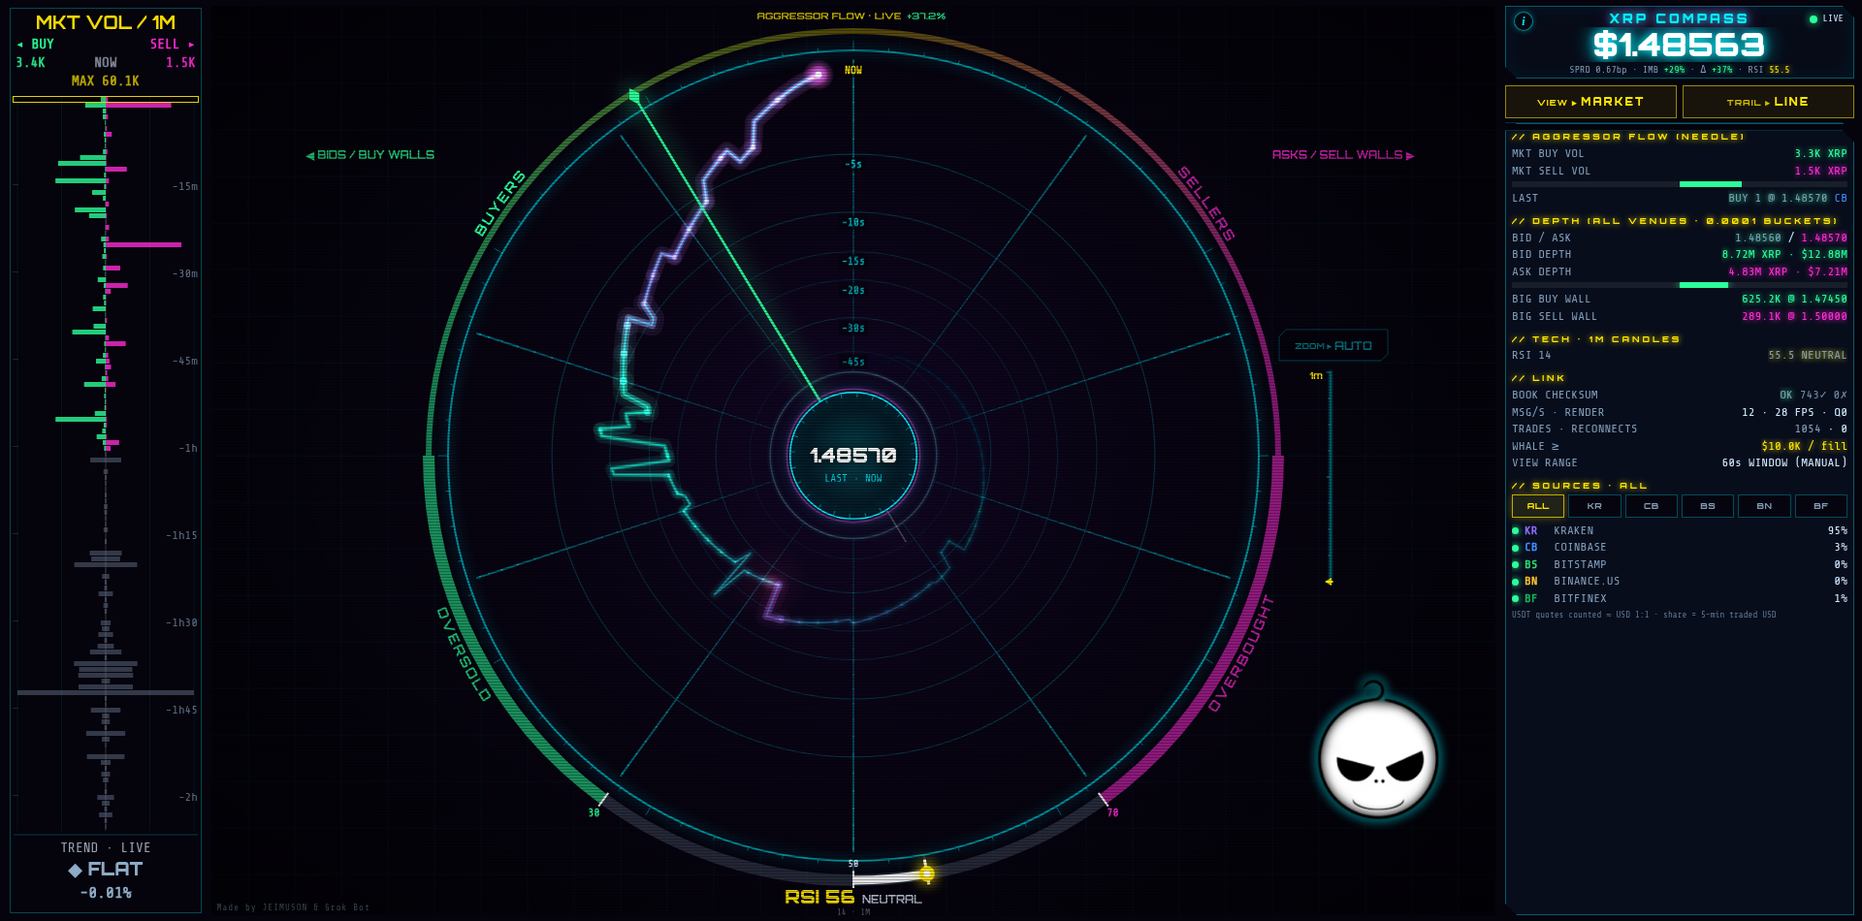
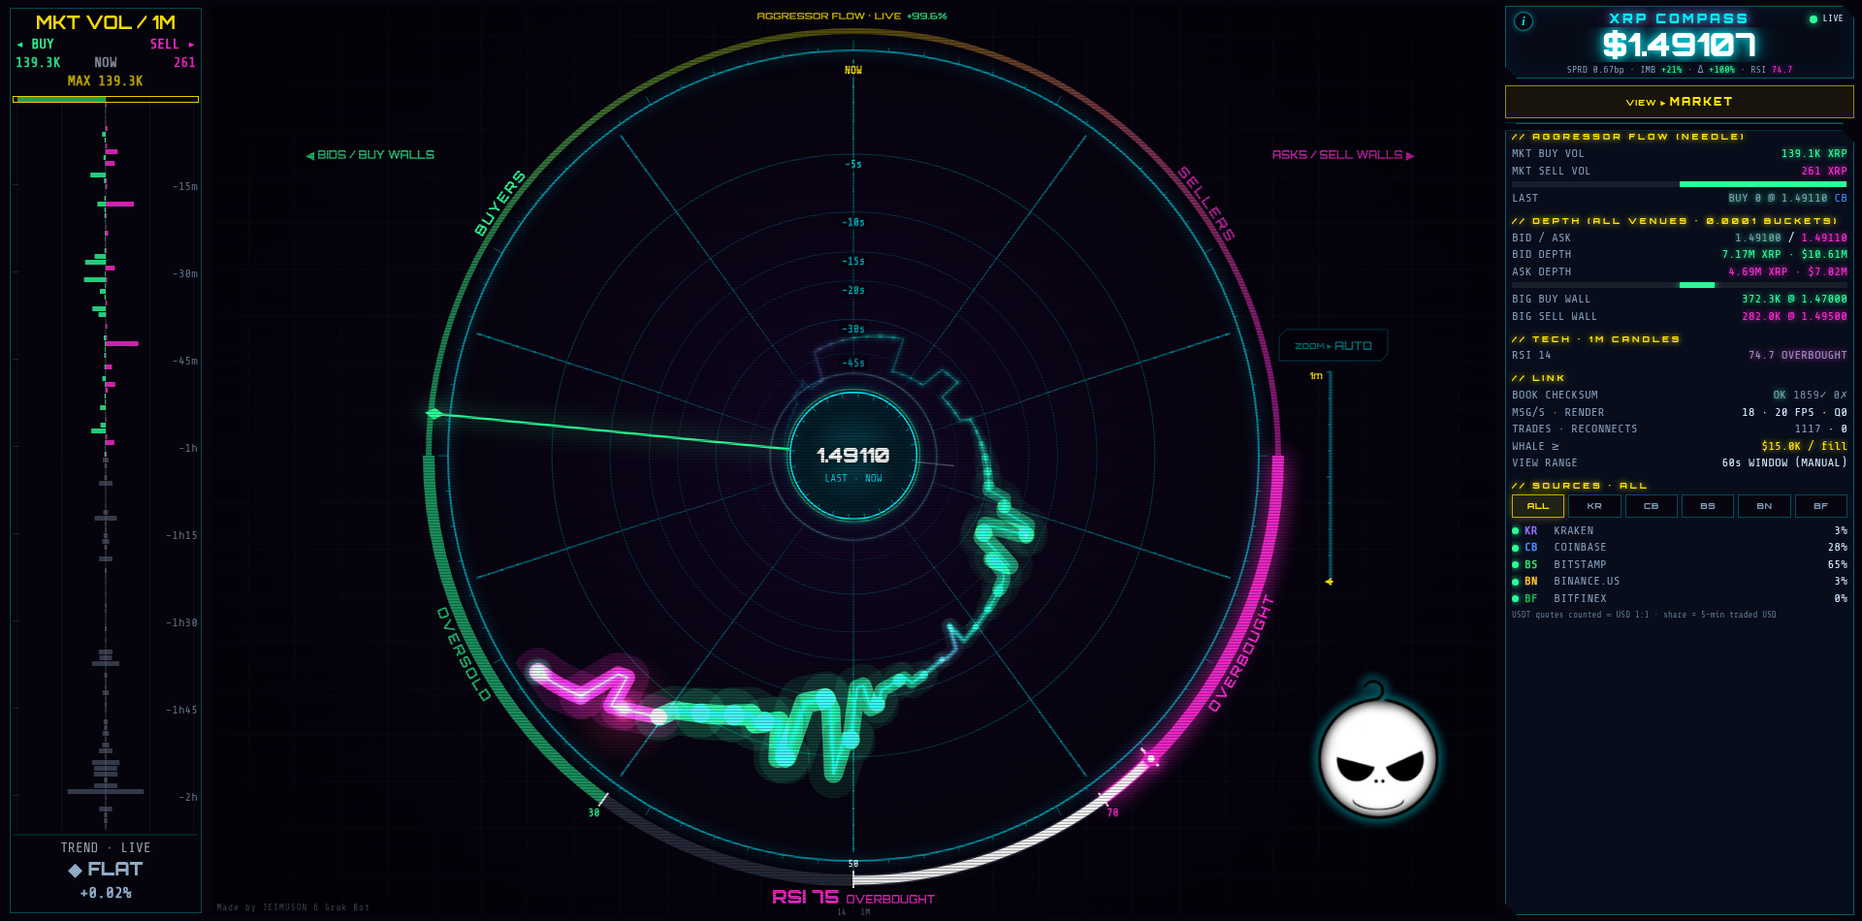
Revert to 1956 content (no trail toggle), clear trail setting (build 20261002-2031)

diff --git a/index.html b/index.html
@@ -3,7 +3,7 @@
 <head>
 <meta charset="utf-8">
 <meta http-equiv="Cache-Control" content="no-cache, no-store, must-revalidate"><meta http-equiv="Pragma" content="no-cache"><meta http-equiv="Expires" content="0">
-<script>window.OFC_BUILD='20261002-2007';(function(){try{if(!/^https?:/.test(location.protocol))return;fetch(location.pathname+'?_='+Date.now(),{cache:'no-store'}).then(r=>r.text()).then(t=>{const m=t.match(/OFC_BUILD='([^']+)'/);if(m&&m[1]!==window.OFC_BUILD&&sessionStorage.getItem('ofcB')!==m[1]){sessionStorage.setItem('ofcB',m[1]);location.replace(location.pathname+'?v='+m[1]+location.hash);}}).catch(()=>{});}catch(e){}})();</script>
+<script>window.OFC_BUILD='20261002-2031';try{localStorage.removeItem('ofc.trail')}catch(e){};(function(){try{if(!/^https?:/.test(location.protocol))return;fetch(location.pathname+'?_='+Date.now(),{cache:'no-store'}).then(r=>r.text()).then(t=>{const m=t.match(/OFC_BUILD='([^']+)'/);if(m&&m[1]!==window.OFC_BUILD&&sessionStorage.getItem('ofcB')!==m[1]){sessionStorage.setItem('ofcB',m[1]);location.replace(location.pathname+'?v='+m[1]+location.hash);}}).catch(()=>{});}catch(e){}})();</script>
 <meta name="viewport" content="width=device-width,initial-scale=1,viewport-fit=cover,user-scalable=no">
 <meta name="theme-color" content="#05030c">
 <meta name="color-scheme" content="dark">
@@ -71,7 +71,6 @@ body.hublogo #top .logo{display:none}   /* mobile: logo lives in the compass hub
 #win button.zauto{flex:1.5}.zpill #win button.zauto{display:none !important}#win button.tdir#tdir{flex:1.6}
 #win button.zauto:not(.lit){color:rgba(0,240,255,.45);border-color:rgba(0,240,255,.25);background:rgba(5,3,12,.75)}
 #win button.zauto.lit{box-shadow:0 0 10px rgba(255,230,0,.35)}
-#win button.tdir#tsty{flex:1.25;font-size:8px}#win button#tsty i{display:block;font-style:normal;margin-bottom:3px;opacity:.8}#win button.tdir#tsty b{letter-spacing:1px}body:not(.mkt) #win button#tsty{display:none}
 #win button.on{background:rgba(0,240,255,.22);color:#fff;box-shadow:0 0 12px var(--cy),inset 0 0 10px rgba(0,240,255,.4)}
 #sheet>.panel{padding:0 6px}
 #tabs{display:flex;gap:4px;margin:0}
@@ -104,7 +103,7 @@ body.hublogo #top .logo{display:none}   /* mobile: logo lives in the compass hub
  #app{padding:calc(var(--st) + 6px) calc(env(safe-area-inset-right,0px) + 8px) calc(var(--sb) + 6px) calc(env(safe-area-inset-left,0px) + 8px)}
  #top,#vcv,#sheet{margin:0}
  #win{flex-wrap:wrap;row-gap:6px}
- #win button.zauto,#win button.tdir#tdir,#win button.tdir#tsty{flex:1 1 40%}#win button.tdir#tsty{font-size:9px}#win button#tsty i{display:inline;margin:0}#win button.tdir#tsty b{letter-spacing:2px}
+ #win button.zauto,#win button.tdir#tdir{flex:1 1 40%}
  #vcv{order:-1;flex:0 0 clamp(130px,10.5vw,270px);width:clamp(130px,10.5vw,270px) !important;height:auto;align-self:stretch;min-height:0}
  #pages{display:block;position:static;max-height:none;margin-top:6px}
  #sheetClose{display:none}
@@ -165,8 +164,7 @@ body.hublogo #top .logo{display:none}   /* mobile: logo lives in the compass hub
  <li>One lap = the time window (15–60s, shown on the zoom bar).</li>
  <li>Trail swings <b>out</b> = price up, <b>in</b> = price down.</li>
  <li><b class="gr">Green</b> = buyers, <b class="rd">red</b> = sellers. Thicker trail = more volume.</li>
- <li><b>Flares</b> mark the spots with the heaviest trading.</li>
- <li><b>TRAIL ▸ LINE / CANDLES / HEIKIN ASHI</b> switches the spiral between the flow line and candles along the same path (each candle = window/20; body = open→close, wick = high/low; green up, red down; Heikin Ashi smooths them).</li></ul>
+ <li><b>Flares</b> mark the spots with the heaviest trading.</li></ul>
  <h3>LIMIT VIEW · ORDER-BOOK WALLS</h3>
  <ul><li>Arcs are <b>walls</b> of waiting orders: <b class="gr">buyers left</b>, <b class="rd">sellers right</b>.</li>
  <li>Distance from the middle = distance from the current price.</li>
@@ -195,7 +193,7 @@ body.hublogo #top .logo{display:none}   /* mobile: logo lives in the compass hub
 </div>
 
 <div id="sheet">
- <div id="win"><button id="zauto" class="tdir zauto" title="auto zoom on/off">ZOOM ▸ <b>AUTO</b></button><button id="tdir" class="tdir" title="view mode: limit orders / market orders">VIEW ▸ <b>LIMIT</b></button><button id="tsty" class="tdir" title="MARKET trail style: line / candles / heikin ashi"><i>TRAIL ▸</i> <b>LINE</b></button></div>
+ <div id="win"><button id="zauto" class="tdir zauto" title="auto zoom on/off">ZOOM ▸ <b>AUTO</b></button><button id="tdir" class="tdir" title="view mode: limit orders / market orders">VIEW ▸ <b>LIMIT</b></button></div>
  <div class="panel">
   <div id="tabs"><button data-p="0" class="on">FLOW</button><button data-p="1">DEPTH</button><button data-p="2">TECH</button><button data-p="3">LINK</button><button data-p="4">SRC</button></div>
  </div>
@@ -719,12 +717,8 @@ try{let v=localStorage.getItem('ofc.view');
   if(!v){const old=localStorage.getItem('ofc.timeDir');v=old==='out'?'market':'limit';localStorage.setItem('ofc.view',v);localStorage.removeItem('ofc.timeDir');}
   VIEW=v==='market'?'market':'limit';}catch(e){}
 let INBOUND=VIEW==='limit';
-function syncDir(){INBOUND=VIEW==='limit';document.body.classList.toggle('mkt',VIEW==='market');$('tdir').innerHTML=`VIEW ▸ <b>${VIEW==='limit'?'LIMIT':'MARKET'}</b>`;trailDirty=true;}
+function syncDir(){INBOUND=VIEW==='limit';$('tdir').innerHTML=`VIEW ▸ <b>${VIEW==='limit'?'LIMIT':'MARKET'}</b>`;trailDirty=true;}
 $('tdir').onclick=()=>{VIEW=VIEW==='limit'?'market':'limit';try{localStorage.setItem('ofc.view',VIEW);}catch(e){}syncDir();};syncDir();
-let TSTY=(()=>{try{const v=localStorage.getItem('ofc.trail');return ['line','candles','ha'].includes(v)?v:'line';}catch(e){return 'line';}})();   // MARKET trail style
-function syncTsty(){const n={line:'LINE',candles:'CANDLES',ha:innerWidth<560?'H-ASHI':'HEIKIN ASHI'}[TSTY];$('tsty').innerHTML=`<i>TRAIL ▸</i> <b>${n}</b>`;}
-function setTsty(v){TSTY=v;try{localStorage.setItem('ofc.trail',TSTY);}catch(e){}syncTsty();}
-$('tsty').onclick=()=>setTsty(TSTY==='line'?'candles':TSTY==='candles'?'ha':'line');syncTsty();addEventListener('resize',syncTsty);
 const depthOf=age=>INBOUND?Math.max(0,(LWIN-age)*HIST_SEC/LWIN):age;   // LIMIT: newest at the vanishing point, LWIN-old at the ring   // tunnel depth in seconds
 
 const COL={bid:[43,255,154],ask:[255,43,214],cy:[0,240,255],yl:[255,230,0]};
@@ -1459,14 +1453,14 @@ function drawTrail(now){
     BSP=Math.max(mid*0.00002,0.6*(dv[Math.floor(dv.length*0.9)]||0));}   // AUTO: ~90th-pct move maps to ~1.6x amplitude (tanh softens outliers)
   const WIG=[];
   const AMAX=Math.max(1,Math.min(trail.length-1+lag,MWIN)), DZ=HIST_SEC/MWIN, KO=0.985, sMin=FOCAL/(FOCAL+AMAX*DZ);
-  const pt=(f,PX)=>{const age=f===0?0:f+lag,dz=age*DZ,p=proj(dz),s=p.s,sT=FOCAL/(FOCAL+dz+TURN*DZ);
+  const pt=f=>{const age=f===0?0:f+lag,dz=age*DZ,p=proj(dz),s=p.s,sT=FOCAL/(FOCAL+dz+TURN*DZ);
     const u=Math.max(0,Math.min(1,(s-sMin)/(1-sMin)))*Math.min(1,(AMAX-age)/6+0.0);
     // radial wiggle = (trade price - newest trade) / bulge scale, amplitude scales with perspective; soft (tanh) limit ~0.55 coil gap
-    const raw=((PX==null?prAt(f):PX)-P0)/BSP*RMAX*KO*s*0.22, L=Math.max(2,0.55*RMAX*KO*(s-sT)), off=L*Math.tanh(raw/L);
+    const raw=(prAt(f)-P0)/BSP*RMAX*KO*s*0.22, L=Math.max(2,0.55*RMAX*KO*(s-sT)), off=L*Math.tanh(raw/L);
     const r=RMAX*KO*s+off, th=ang(age);   // head (f=0) = newest trade -> off 0 -> rides the outer ring
     let x=p.x+Math.cos(th)*r, y=p.y+Math.sin(th)*r;
     {const dx=x-CX,dy=y-CY,d=Math.hypot(dx,dy),m=RMAX*0.995,k0=0.9*m;if(d>k0){const dd=k0+(m-k0)*Math.tanh((d-k0)/(m-k0));x=CX+dx*dd/d;y=CY+dy*dd/d;}}   // soft outer edge
-    if(PX==null){if(WIG.length<4000)WIG.push(off); if(f===3||f===8)(window.__ofcR=window.__ofcR||{})['o'+f]=off;}
+    if(WIG.length<4000)WIG.push(off); if(f===3||f===8)(window.__ofcR=window.__ofcR||{})['o'+f]=off;
     return {x,y,s,u};};
   const SUB=MWIN<=20?10:MWIN<=45?6:MWIN<=90?4:3, sub=a=>{const o=[];for(let j=0;j<=SUB;j++)o.push(pt(a+j/SUB));return o;};
   const P=[];for(let a=0;a<=NW;a++)P.push(pt(a));
@@ -1481,12 +1475,12 @@ function drawTrail(now){
   // centreline spine: thin continuous track that fades into the vanishing point
   ctx.lineWidth=1;
   const S=[];for(let a=0;a<P.length-1;a++)S.push(sub(a));
-  for(const [lw,al] of (TSTY!=='line'?[[6,0.07],[1.4,0.38]]:LOW?[[10,0.10],[4.5,0.16],[1.6,0.75]]:[[14,0.07],[8,0.12],[4,0.18],[1.6,0.75]])){ctx.lineWidth=lw*Math.max(0.8,RMAX/400);
+  for(const [lw,al] of (LOW?[[10,0.10],[4.5,0.16],[1.6,0.75]]:[[14,0.07],[8,0.12],[4,0.18],[1.6,0.75]])){ctx.lineWidth=lw*Math.max(0.8,RMAX/400);
     for(let a=0;a<S.length;a++){const q=S[a];ctx.strokeStyle=`rgba(0,240,255,${(al*Math.pow(P[a].u,0.8)).toFixed(3)})`;
       ctx.beginPath();ctx.moveTo(q[0].x,q[0].y);for(let j=1;j<q.length;j++)ctx.lineTo(q[j].x,q[j].y);ctx.stroke();}}
   // volume ribbon: colour = buy/sell dominance, width = volume; thins and fades with depth
   ctx.globalCompositeOperation='lighter';
-  if(TSTY==='line')for(let a=P.length-2;a>=0;a--){const b=trail[a],v=b.bs+b.ss;if(v<=0)continue;
+  for(let a=P.length-2;a>=0;a--){const b=trail[a],v=b.bs+b.ss;if(v<=0)continue;
     const rel=Math.sqrt(v/vref),c=mixCol((b.bs-b.ss)/v),p0=P[a],p1=P[a+1],u=p0.u;if(u<=0.01)continue;
     const ht=hot[a],LW=(2.4+RMAX*0.07*rel+RMAX*0.05*ht)*(0.12+0.88*u);
     {const q=S[a];ctx.shadowBlur=0;ctx.strokeStyle=rgba(c,(0.16*Math.pow(u,0.9)).toFixed(3));ctx.lineWidth=LW*2.4+6*(0.3+0.7*u);ctx.beginPath();ctx.moveTo(q[0].x,q[0].y);for(let j=1;j<q.length;j++)ctx.lineTo(q[j].x,q[j].y);ctx.stroke();}   // wide soft glow underlay
@@ -1494,32 +1488,6 @@ function drawTrail(now){
     if(Q>0&&(rel>0.25||ht>0.3)&&u>0.3){ctx.shadowColor=rgba(c,1);ctx.shadowBlur=(18*rel+26*ht*(0.7+0.3*pulse))*u;}else ctx.shadowBlur=0;
     {const q=S[a];ctx.beginPath();ctx.moveTo(q[0].x,q[0].y);for(let j=1;j<q.length;j++)ctx.lineTo(q[j].x,q[j].y);ctx.stroke();}}
   ctx.shadowBlur=0;
-  // CANDLES / HEIKIN ASHI trail: buckets of window/20 (fixed time boundaries) laid along the same spiral path; body runs radially
-  // open->close and the wick high->low on the spiral's own price scale (pt(f,price)), so one lap still = the window
-  if(TSTY!=='line'){const Bk=Math.max(0.25,MWIN/20),ph=(dn/1000)%Bk||Bk,NB=Math.ceil(Math.max(0,AMAX-ph)/Bk)+1,tot=NB+(TSTY==='ha'?12:0),t0=dn-(ph+(tot-1)*Bk)*1000;
-    const C=[];for(let k=0;k<tot;k++)C.push({o:null,h:-Infinity,l:Infinity,c:null});
-    for(let i=trades.length-1;i>=0;i--){const t=trades[i];if(t.t<t0)break;const ag=(dn-t.t)/1000;if(ag<0)continue;const k=ag<=ph?0:Math.ceil((ag-ph)/Bk);if(k>=tot)continue;const b=C[k];
-      if(b.c==null)b.c=t.px;b.o=t.px;if(t.px>b.h)b.h=t.px;if(t.px<b.l)b.l=t.px;}   // newest->oldest: first seen = close, last seen = open
-    {let pc=null;for(let k=tot-1;k>=0;k--){const b=C[k];if(b.c==null){if(pc!=null){b.o=b.c=b.h=b.l=pc;}}else pc=b.c;}}   // quiet bucket = flat doji at the last close
-    if(TSTY==='ha'){let po=null,pq=null;for(let k=tot-1;k>=0;k--){const b=C[k];if(b.c==null)continue;   // standard Heikin Ashi on the same buckets
-      const hc=(b.o+b.h+b.l+b.c)/4,ho=po==null?(b.o+b.c)/2:(po+pq)/2;b.h=Math.max(b.h,ho,hc);b.l=Math.min(b.l,ho,hc);b.o=ho;b.c=hc;po=ho;pq=hc;}}
-    const sc=Math.max(0.8,RMAX/400);let nd=0;ctx.globalCompositeOperation='source-over';
-    for(let k=Math.min(NB,tot)-1;k>=0;k--){const b=C[k];if(b.c==null)continue;const a0=k===0?0:ph+(k-1)*Bk,a1=Math.min(AMAX,k===0?ph:ph+k*Bk);if(a1-a0<0.04)continue;
-      const g=(a1-a0)*0.13,f0=a0+g-lag,f1=a1-g-lag,fm=(a0+a1)/2-lag,u=pt(fm,b.c).u;if(u<=0.02)continue;
-      const up=b.c>=b.o,col=up?COL.bid:[255,59,107],hi=[Math.min(255,col[0]+90),Math.min(255,col[1]+90),Math.min(255,col[2]+90)],uu=Math.min(1,0.25+Math.pow(u,0.7));
-      const E1=[pt(f0,b.o),pt(fm,b.o),pt(f1,b.o)],E2=[pt(f1,b.c),pt(fm,b.c),pt(f0,b.c)],wh=pt(fm,b.h),wl=pt(fm,b.l);
-      ctx.shadowBlur=0;ctx.strokeStyle=rgba(hi,(0.9*uu).toFixed(3));ctx.lineWidth=Math.max(1.2,1.6*sc*(0.45+0.55*u));ctx.beginPath();ctx.moveTo(wh.x,wh.y);ctx.lineTo(wl.x,wl.y);ctx.stroke();   // wick
-      const thick=Math.hypot(E1[1].x-E2[1].x,E1[1].y-E2[1].y);
-      {const ob=[...E1,...E2];ctx.globalCompositeOperation='lighter';ctx.strokeStyle=rgba(col,(0.16*uu).toFixed(3));ctx.lineWidth=Math.max(5,9*sc*(0.4+0.6*u));ctx.beginPath();ctx.moveTo(ob[0].x,ob[0].y);for(const p of ob.slice(1))ctx.lineTo(p.x,p.y);ctx.closePath();ctx.stroke();ctx.globalCompositeOperation='source-over';}   // soft glow band
-      if(Q>0&&u>0.2){ctx.shadowColor=rgba(col,0.95);ctx.shadowBlur=(6+10*u)*sc;}
-      if(thick<3){ctx.lineCap='butt';ctx.strokeStyle=rgba(hi,(0.95*uu).toFixed(3));ctx.lineWidth=Math.max(3,4.5*sc*(0.45+0.55*u));ctx.beginPath();ctx.moveTo(E1[0].x,E1[0].y);ctx.lineTo(E1[1].x,E1[1].y);ctx.lineTo(E1[2].x,E1[2].y);ctx.stroke();ctx.lineCap='round';}   // doji = solid bar along the spiral
-      else{const path=()=>{ctx.beginPath();ctx.moveTo(E1[0].x,E1[0].y);for(const p of E1.slice(1))ctx.lineTo(p.x,p.y);for(const p of E2)ctx.lineTo(p.x,p.y);ctx.closePath();};
-        ctx.fillStyle=`rgba(4,8,18,${(0.85*uu).toFixed(3)})`;path();ctx.fill();ctx.shadowBlur=0;
-        ctx.fillStyle=rgba(col,((up?0.78:0.72)*uu).toFixed(3));path();ctx.fill();
-        ctx.strokeStyle=rgba(hi,(0.95*uu).toFixed(3));ctx.lineWidth=Math.max(1.2,1.5*sc*(0.5+0.5*u));path();ctx.stroke();}
-      nd++;if(k===0)window.__ofcC={n:0,o:b.o,h:b.h,l:b.l,c:b.c,B:Bk};}
-    if(window.__ofcC)window.__ofcC.n=nd;
-    ctx.shadowBlur=0;ctx.globalCompositeOperation='lighter';}
   // bloom + twinkling sparks where the trail crosses the most-traded levels
   TRHOT=[];
   for(let a=1;a<P.length;a++){const ht=hot[a],p=P[a];if(ht<0.3||p.u<0.08)continue;const b=trail[a],v=b.bs+b.ss,c=v>0?mixCol((b.bs-b.ss)/v):COL.yl;
@@ -1735,7 +1703,7 @@ function frame(){
 connect();seedREST();
 requestAnimationFrame(frame);
 document.addEventListener('visibilitychange',()=>{if(!document.hidden&&(!ws||ws.readyState>1)){backoff=1000;connect();}});
-window.__ofc={get tsty(){return TSTY},setTsty,get cdl(){return window.__ofcC||null},simEat(ms,kind,hold,px){EAT={t0:Date.now(),ms,kind:kind||'eat',hold:hold==null?0:hold,px:px||0,q0:0,lq:null};},get spoof(){return {n:{...SPF.n},trk:SPF.trk.size,ev:SPF.ev.slice(-6).map(o=>({k:o.kind,s:o.side,px:o.px,q0:+o.q0.toFixed(1),q1:+o.q1.toFixed(1),ratio:o.ratio,spoof:o.spoof,big:o.big,ven:o.ven}))}},get eat(){const n=performance.now();return EAT&&{px:EAT.px,q0:EAT.q0,ref:REFQ,cp:history.filter((h,i)=>i%8===0&&(n-h.t)/1000<=LWIN).map(h=>{const e=h.b.find(x=>x[0]===EAT.px);return e?[Math.round((n-h.t)/1000),+levelSpan(e[1],REFQ||h.maxq).toFixed(3)]:null;}).filter(Boolean)}},get mt(){return {w:+MT.w.toFixed(1),q:+MT.q.toFixed(2),z:+MT.z.toFixed(2),sg:MT.sg,burst:burst.on}},get lt(){return {w:+LT.w.toFixed(1),rho:+LT.rho.toFixed(2),lwin:+LWIN.toFixed(1),burst:burst.on}},get keyWalls(){return VIEW==='limit'?{...KEYW,nSig:{bid:topWalls.bid.length,ask:topWalls.ask.length},marks:PLBL.map(q=>q.txt)}:null},simFlat(){SIM={on:true,base:mid,t0:0,dir:0,amp:0,ramp:1};},simMove(dir,frac,ramp){SIM.t0=Date.now();SIM.dir=dir;SIM.amp=frac*SIM.base;SIM.ramp=ramp;},get resp(){const v=proj(HIST_SEC),m=proj(HIST_SEC*0.4);return {tw:+(TWIST_MAX*VSP.w*180/Math.PI).toFixed(2),vp:+(v.y-CY).toFixed(1),vm:+(m.y-CY).toFixed(1),o3:+((window.__ofcR||{}).o3||0).toFixed(1),o8:+((window.__ofcR||{}).o8||0).toFixed(1),mw:+MWIN.toFixed(1),dr:dispRange,pr:pathRef}},get bp(){return BP.length},autoOff(){pillT=0;if(rangeAuto)pillTap();},get dr(){return dispRange},get hubLogo(){return !WIDE&&LOGO.complete&&LOGO.naturalWidth>0},get hdrLogo(){const e=document.querySelector('#top .logo');return !!e&&getComputedStyle(e).display!=='none'},get flares(){return VIEW==='market'?[...FLR.entries()].map(([k,F])=>{const p=F.dx!=null?{x:F.dx,y:F.dy}:null;return {k,T:F.T,tT:trailT,st:trailStep,w:+F.w.toFixed(2),on:!!F.on,side:F.c===COL.bid?'bid':'ask',x:p?Math.round(p.x):null,y:p?Math.round(p.y):null};}):null},winTo(S){intro=null;setAuto(false);syncZA();let lo=0,hi=1;const f=u=>mWinOf(zR(u));const dec=f(0)>f(1);for(let i=0;i<40;i++){const m=(lo+hi)/2;if((f(m)>S)===dec)lo=m;else hi=m;}rangeFrac=zR((lo+hi)/2);return f((lo+hi)/2);},get vring(){if(VIEW!=='market')return null;const p=proj(HIST_SEC);return {full:+(RMAX*p.s).toFixed(1),r:+(RMAX*p.s).toFixed(1),x:Math.round(p.x),y:Math.round(p.y),R0:Math.round(R0)}},get twist(){return VIEW==='market'?+(TWIST_MAX*VSP.w*180/Math.PI).toFixed(1):0},get spin(){return {w:+VSP.w.toFixed(3),ph:+VSP.ph.toFixed(3)}},zManual(){intro=null;setAuto(false);syncZA();},get burst(){return {...burst,now:Date.now()}},simBurst(usd){const px=trades.length?trades[trades.length-1].px:mid,n=Date.now();for(let k=0;k<8;k++)trades.push({t:n-(7-k)*300,side:k%2?'sell':'buy',qty:usd/8/px,px,v:'kraken'});trailDirty=true;},get auto(){return rangeAuto},zAuto(){intro=null;setAuto(true);syncZA();},zIn(){intro=null;setAuto(false);rangeFrac=zR(1);syncZA();},get mwin(){return +MWIN.toFixed(1)},get lwin(){return +LWIN.toFixed(1)},get prange(){return PRANGE},get disp(){return dispRange},get plbl(){return PLBL.map(q=>q.txt)},get hubTxt(){return mid?hubTxt():null},get head(){return {x:Math.round(TRHEAD.x),y:Math.round(TRHEAD.y),CX,CY,R0:Math.round(R0),RMAX:Math.round(RMAX)}},get logo(){const g=logoGeom();return g&&{x:Math.round(g.x),y:Math.round(g.y),S:g.S,CX,CY,RMAX,W,H,Z:zbarGeom()}},get ven(){return Object.fromEntries(Object.entries(VEN).map(([k,v])=>[k,{st:v.st,share:+v.share.toFixed(3),books:BOOKS.filter(B=>B.v===k).map(B=>({k:B.k,ready:B.ready,n:B.b.size+B.a.size,ck:B.ckOk,ckBad:B.ckBad,resyncs:B.resyncs}))}]))},get src(){return SRC},setSource,get comb(){return {ready:BREADY,mid,bestBid,bestAsk,nb:sortedB.length,na:sortedA.length}},get raw(){return RAW.length},get flow(){const f=flow(30);return {b:Math.round(f.b),s:Math.round(f.s),r:+f.r.toFixed(3)}},get trendW(){return trendWin()},get win(){return winSec},get heatN(){return Object.fromEntries(Object.entries(HEATS).map(([w,H])=>[w,H.m.size]))},get intro(){return intro},book,get mid(){return mid},get ck(){return {ckOk,ckBad,ckLast}},get trades(){return tradeCount},get bubbles(){return bubbles.length},get hist(){return history.length},get ind(){return ind},get candles(){return candles.size},get dir(){return INBOUND?'in':'out'},get view(){return VIEW},get layout(){return {W,H,CX,CY,RMAX,R0,WIDE}},get tunnel(){const far=proj(HIST_SEC);return {FOCAL,farScale:far.s,farY:far.y-CY,dispRange,fitFrac,rangeAuto,RMAX}},zoom(f){setAuto(false);rangeFrac=Math.min(0.08,Math.max(0.0005,rangeFrac*f));},autoZoom(){setAuto(true);},get autoOn(){return rangeAuto},get zgeom(){return zbarGeom()},get conn(){return connState},get fps(){return FPS},get q(){return Q},get rc(){return reconnects},forceDrop(){ws&&ws.close();}};
+window.__ofc={simEat(ms,kind,hold,px){EAT={t0:Date.now(),ms,kind:kind||'eat',hold:hold==null?0:hold,px:px||0,q0:0,lq:null};},get spoof(){return {n:{...SPF.n},trk:SPF.trk.size,ev:SPF.ev.slice(-6).map(o=>({k:o.kind,s:o.side,px:o.px,q0:+o.q0.toFixed(1),q1:+o.q1.toFixed(1),ratio:o.ratio,spoof:o.spoof,big:o.big,ven:o.ven}))}},get eat(){const n=performance.now();return EAT&&{px:EAT.px,q0:EAT.q0,ref:REFQ,cp:history.filter((h,i)=>i%8===0&&(n-h.t)/1000<=LWIN).map(h=>{const e=h.b.find(x=>x[0]===EAT.px);return e?[Math.round((n-h.t)/1000),+levelSpan(e[1],REFQ||h.maxq).toFixed(3)]:null;}).filter(Boolean)}},get mt(){return {w:+MT.w.toFixed(1),q:+MT.q.toFixed(2),z:+MT.z.toFixed(2),sg:MT.sg,burst:burst.on}},get lt(){return {w:+LT.w.toFixed(1),rho:+LT.rho.toFixed(2),lwin:+LWIN.toFixed(1),burst:burst.on}},get keyWalls(){return VIEW==='limit'?{...KEYW,nSig:{bid:topWalls.bid.length,ask:topWalls.ask.length},marks:PLBL.map(q=>q.txt)}:null},simFlat(){SIM={on:true,base:mid,t0:0,dir:0,amp:0,ramp:1};},simMove(dir,frac,ramp){SIM.t0=Date.now();SIM.dir=dir;SIM.amp=frac*SIM.base;SIM.ramp=ramp;},get resp(){const v=proj(HIST_SEC),m=proj(HIST_SEC*0.4);return {tw:+(TWIST_MAX*VSP.w*180/Math.PI).toFixed(2),vp:+(v.y-CY).toFixed(1),vm:+(m.y-CY).toFixed(1),o3:+((window.__ofcR||{}).o3||0).toFixed(1),o8:+((window.__ofcR||{}).o8||0).toFixed(1),mw:+MWIN.toFixed(1),dr:dispRange,pr:pathRef}},get bp(){return BP.length},autoOff(){pillT=0;if(rangeAuto)pillTap();},get dr(){return dispRange},get hubLogo(){return !WIDE&&LOGO.complete&&LOGO.naturalWidth>0},get hdrLogo(){const e=document.querySelector('#top .logo');return !!e&&getComputedStyle(e).display!=='none'},get flares(){return VIEW==='market'?[...FLR.entries()].map(([k,F])=>{const p=F.dx!=null?{x:F.dx,y:F.dy}:null;return {k,T:F.T,tT:trailT,st:trailStep,w:+F.w.toFixed(2),on:!!F.on,side:F.c===COL.bid?'bid':'ask',x:p?Math.round(p.x):null,y:p?Math.round(p.y):null};}):null},winTo(S){intro=null;setAuto(false);syncZA();let lo=0,hi=1;const f=u=>mWinOf(zR(u));const dec=f(0)>f(1);for(let i=0;i<40;i++){const m=(lo+hi)/2;if((f(m)>S)===dec)lo=m;else hi=m;}rangeFrac=zR((lo+hi)/2);return f((lo+hi)/2);},get vring(){if(VIEW!=='market')return null;const p=proj(HIST_SEC);return {full:+(RMAX*p.s).toFixed(1),r:+(RMAX*p.s).toFixed(1),x:Math.round(p.x),y:Math.round(p.y),R0:Math.round(R0)}},get twist(){return VIEW==='market'?+(TWIST_MAX*VSP.w*180/Math.PI).toFixed(1):0},get spin(){return {w:+VSP.w.toFixed(3),ph:+VSP.ph.toFixed(3)}},zManual(){intro=null;setAuto(false);syncZA();},get burst(){return {...burst,now:Date.now()}},simBurst(usd){const px=trades.length?trades[trades.length-1].px:mid,n=Date.now();for(let k=0;k<8;k++)trades.push({t:n-(7-k)*300,side:k%2?'sell':'buy',qty:usd/8/px,px,v:'kraken'});trailDirty=true;},get auto(){return rangeAuto},zAuto(){intro=null;setAuto(true);syncZA();},zIn(){intro=null;setAuto(false);rangeFrac=zR(1);syncZA();},get mwin(){return +MWIN.toFixed(1)},get lwin(){return +LWIN.toFixed(1)},get prange(){return PRANGE},get disp(){return dispRange},get plbl(){return PLBL.map(q=>q.txt)},get hubTxt(){return mid?hubTxt():null},get head(){return {x:Math.round(TRHEAD.x),y:Math.round(TRHEAD.y),CX,CY,R0:Math.round(R0),RMAX:Math.round(RMAX)}},get logo(){const g=logoGeom();return g&&{x:Math.round(g.x),y:Math.round(g.y),S:g.S,CX,CY,RMAX,W,H,Z:zbarGeom()}},get ven(){return Object.fromEntries(Object.entries(VEN).map(([k,v])=>[k,{st:v.st,share:+v.share.toFixed(3),books:BOOKS.filter(B=>B.v===k).map(B=>({k:B.k,ready:B.ready,n:B.b.size+B.a.size,ck:B.ckOk,ckBad:B.ckBad,resyncs:B.resyncs}))}]))},get src(){return SRC},setSource,get comb(){return {ready:BREADY,mid,bestBid,bestAsk,nb:sortedB.length,na:sortedA.length}},get raw(){return RAW.length},get flow(){const f=flow(30);return {b:Math.round(f.b),s:Math.round(f.s),r:+f.r.toFixed(3)}},get trendW(){return trendWin()},get win(){return winSec},get heatN(){return Object.fromEntries(Object.entries(HEATS).map(([w,H])=>[w,H.m.size]))},get intro(){return intro},book,get mid(){return mid},get ck(){return {ckOk,ckBad,ckLast}},get trades(){return tradeCount},get bubbles(){return bubbles.length},get hist(){return history.length},get ind(){return ind},get candles(){return candles.size},get dir(){return INBOUND?'in':'out'},get view(){return VIEW},get layout(){return {W,H,CX,CY,RMAX,R0,WIDE}},get tunnel(){const far=proj(HIST_SEC);return {FOCAL,farScale:far.s,farY:far.y-CY,dispRange,fitFrac,rangeAuto,RMAX}},zoom(f){setAuto(false);rangeFrac=Math.min(0.08,Math.max(0.0005,rangeFrac*f));},autoZoom(){setAuto(true);},get autoOn(){return rangeAuto},get zgeom(){return zbarGeom()},get conn(){return connState},get fps(){return FPS},get q(){return Q},get rc(){return reconnects},forceDrop(){ws&&ws.close();}};
 })();
 // ---------------- INFO overlay: what am I looking at? (✕ / tap outside / Esc) ----------------
 (function(){const I=document.getElementById('info'),B=document.getElementById('infoBtn');if(!I||!B)return;
